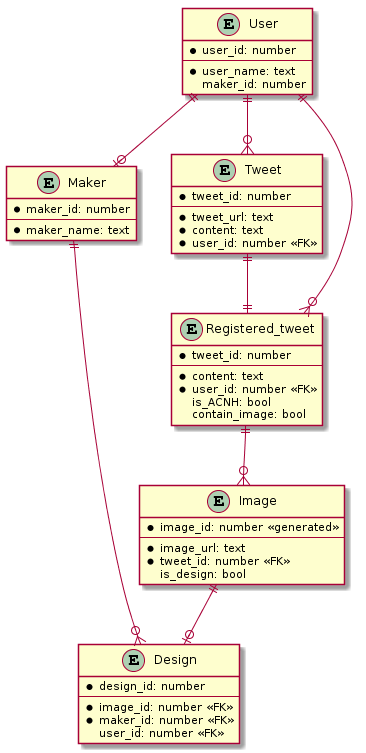
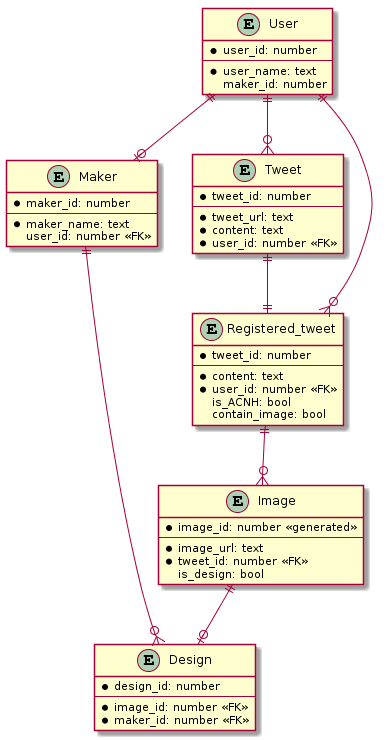
ER図更新

Changed region(s): [[0.0, 0.0, 0.9617, 1.0]]

diff --git a/README.md b/README.md
@@ -34,6 +34,7 @@
 |登録されたつぶやき|registered_tweet|このサービスに登録されたつぶやき|
 |画像|image|登録されたつぶやきに含まれる画像|
 |マイデザイン|design|登録されたつぶやきに含まれる「あつまれどうぶつの森」のマイデザイン|
+|作者|maker|マイデザインの作者|
 
 ## データモデル
 
